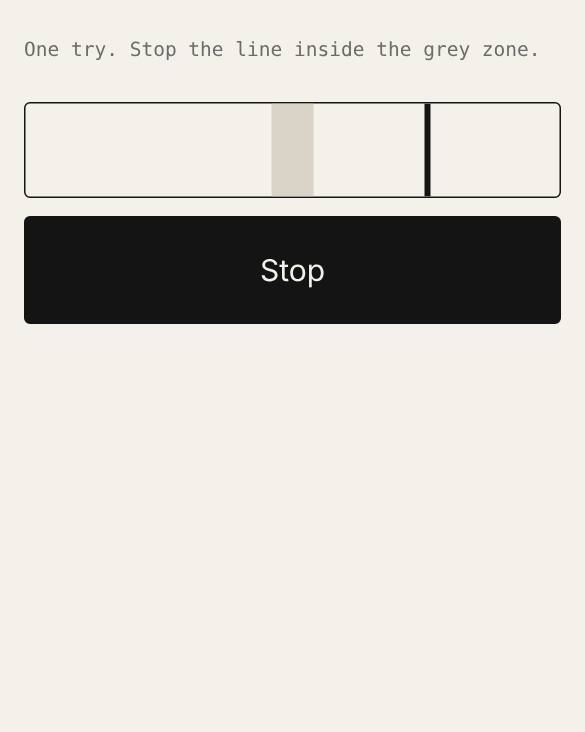
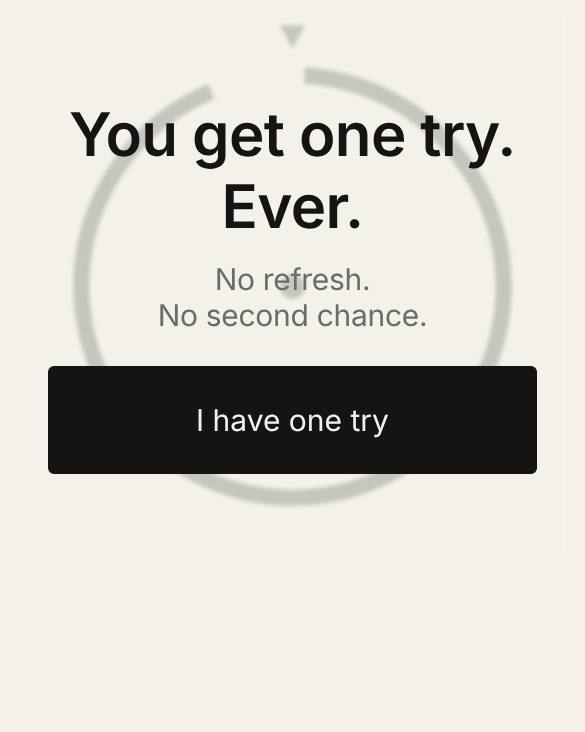
upgrade: one-try-only-game rebuilt as a one-shot ring challenge
Claude-Session: https://claude.ai/code/session_01W7ccME5aP3Yxc2oJkv6EZP

diff --git a/tools/one-try-only-game/index.html b/tools/one-try-only-game/index.html
@@ -46,64 +46,240 @@ ul.plain li { padding: 12px 0; border-bottom: 1px solid var(--line); display: fl
 .built { color: var(--built); }
 @media (prefers-reduced-motion: reduce) { * { animation: none !important; transition: none !important; } }
 
-.track { position: relative; height: 64px; border: 1.5px solid var(--ink); border-radius: var(--radius); overflow: hidden; }
-.zone { position: absolute; top: 0; bottom: 0; left: 46%; width: 8%; background: var(--line); }
-.mark { position: absolute; top: 0; bottom: 0; width: 4px; margin-left: -2px; background: var(--ink); }
-#stop { width: 100%; min-height: 72px; font-size: 20px; }
-#stop:disabled { opacity: .45; cursor: default; }
-#result { min-height: 3em; }
-.locked .mark { background: var(--meta); }
+
+:root { --gold: #a87a12; }
+@media (prefers-color-scheme: dark) { :root { --gold: #e3b341; } }
+body { padding-bottom: 32px; }
+main { max-width: 420px; margin: 0 auto; }
+.stage { position: relative; width: 100%; aspect-ratio: 1; }
+svg { width: 100%; height: 100%; display: block; overflow: visible; }
+#ring { fill: none; stroke: var(--ink); stroke-width: 9; transition: stroke .4s; }
+#pulse { transform-origin: 0 0; }
+.guide { stroke: var(--line); stroke-width: 1.5; stroke-dasharray: 3 6; }
+.pointer { fill: var(--ink); }
+#ball { fill: var(--ink); transition: fill .4s; }
+.veil { position: absolute; inset: -4px; display: flex; flex-direction: column; align-items: center; justify-content: center; text-align: center; gap: 4px; padding: 20px; background: color-mix(in srgb, var(--paper) 80%, transparent); backdrop-filter: blur(1.5px); transition: opacity .6s; }
+.veil.gone { opacity: 0; pointer-events: none; }
+.veil p { margin: 0; font-size: 26px; line-height: 1.2; font-weight: 600; letter-spacing: -.01em; }
+.veil p.q { font-weight: 400; color: var(--meta); font-size: 20px; }
+.veil p.ever { font-size: 40px; margin-bottom: 8px; }
+#begin, #release { width: 100%; min-height: 72px; font-size: 20px; margin-top: 18px; }
+#release { margin-top: 12px; }
+#release:disabled { opacity: .45; }
+.tense #ring, .tense #ball { stroke-width: 9; }
+.shade { position: fixed; inset: 0; background: #000; opacity: 0; pointer-events: none; transition: opacity 1.2s; z-index: -1; }
+.tense .shade { opacity: .0; }
+#verdict { margin-top: 20px; animation: rise .9s ease both; }
+#verdict[hidden], #release[hidden], #begin[hidden] { display: none; }
+@keyframes rise { from { opacity: 0; transform: translateY(8px); } to { opacity: 1; transform: none; } }
+.v { font-size: 40px; line-height: 1.08; font-weight: 600; letter-spacing: -.02em; margin: 0; }
+.v.win { color: var(--gold); }
+.v.lose { color: var(--no); }
+.away { font: 500 20px/1.4 var(--mono); margin: 8px 0 0; }
+.stamp { font: 16px/1.4 var(--mono); color: var(--meta); margin: 4px 0 0; }
+.share { margin-top: 24px; border-top: 1px solid var(--line); padding-top: 16px; }
+.share label { display: block; font-size: 16px; color: var(--meta); margin-bottom: 8px; }
+.share textarea { font-size: 16px; min-height: 96px; resize: none; }
+.share button { margin-top: 10px; width: 100%; font-size: 16px; }
+.ring-win #ring { stroke: var(--gold); }
+.ring-win #ball { fill: var(--gold); }
+.ring-lose #ring { stroke: var(--no); }
+.ring-lose #ball { fill: var(--no); }
 </style>
 <style data-embed-hide>html.embed h1:first-of-type{display:none}html.embed body{padding-top:12px}</style><script>if(location.search.indexOf("embed")>-1)document.documentElement.className+=" embed";</script>
 </head>
 <body>
 <h1 id="wish">someone should make a game that gives you only one try and you fail forever</h1>
-<main id="app" class="stack">
-  <p class="meta" id="rule">One try. Stop the line inside the grey zone.</p>
-  <div class="track" id="track"><div class="zone"></div><div class="mark" id="mark"></div></div>
-  <button class="primary" id="stop" type="button">Stop</button>
-  <div id="result" class="big" aria-live="polite"></div>
-  <p class="meta" id="note"></p>
+<main id="app">
+  <div class="stage" id="stage">
+    <svg viewBox="-150 -150 300 300" aria-label="A rotating ring with a gap. A ball waits at the centre.">
+      <line class="guide" x1="0" y1="-8" x2="0" y2="-138"/>
+      <g id="pulse"><g id="ringg"><circle id="ring" r="118" stroke-dasharray="0 1000"/></g></g>
+      <circle id="ball" r="7" cx="0" cy="0"/>
+      <path class="pointer" d="M-7 -146 L7 -146 L0 -133 Z"/>
+    </svg>
+    <div class="veil" id="warn">
+      <p class="ever">You get one try.<br>Ever.</p>
+      <p class="q">No refresh.<br>No second chance.</p>
+      <button class="primary" id="begin" type="button">I have one try</button>
+    </div>
+  </div>
+  <button class="primary" id="release" type="button" hidden>Release</button>
+  <section id="verdict" hidden aria-live="polite">
+    <p class="v" id="vtext"></p>
+    <p class="away" id="away"></p>
+    <p class="stamp" id="stamp"></p>
+    <div class="share">
+      <label for="sharetext">Share your one try</label>
+      <textarea id="sharetext" readonly></textarea>
+      <button type="button" id="copy">Copy</button>
+    </div>
+  </section>
 </main>
 <script>
 (() => {
   'use strict';
   const KEY = 'one-try-only-game';
+  const GAP = 26;          // gap width in degrees
+  const SPEED = 110;       // ring degrees per second
+  const SLOW = 0.2;        // time scale after release
+  const FLIGHT = 1.4;      // seconds for the ball to reach the ring
+  const R = 118, C = 2 * Math.PI * R;
+  const $ = s => document.querySelector(s);
+  const ring = $('#ring'), ringg = $('#ringg'), ball = $('#ball'), pulse = $('#pulse');
+  const warn = $('#warn'), begin = $('#begin'), release = $('#release');
+  const verdict = $('#verdict');
+
+  // Storage: localStorage first, a cookie as backup.
   const store = {
-    get(k, d) { try { const v = localStorage.getItem(k); return v == null ? d : JSON.parse(v); } catch { return d; } },
-    set(k, v) { try { localStorage.setItem(k, JSON.stringify(v)); return true; } catch { return false; } }
+    get() {
+      try { const v = localStorage.getItem(KEY); if (v) return JSON.parse(v); } catch (e) {}
+      try {
+        const m = document.cookie.match(/(?:^|; )ots=([^;]*)/);
+        if (m) return JSON.parse(decodeURIComponent(m[1]));
+      } catch (e) {}
+      return null;
+    },
+    set(v) {
+      try { localStorage.setItem(KEY, JSON.stringify(v)); } catch (e) {}
+      try { document.cookie = 'ots=' + encodeURIComponent(JSON.stringify(v)) + '; max-age=315360000; path=/; SameSite=Lax'; } catch (e) {}
+    }
   };
-  const $ = (s, r = document) => r.querySelector(s);
-  const ZONE_MIN = 46, ZONE_MAX = 54;
-  const mark = $('#mark'), stop = $('#stop'), result = $('#result'), note = $('#note'), rule = $('#rule');
-  let raf = 0, t0 = performance.now();
 
-  // triangle wave 0..100, period 1.4 s
-  const posAt = t => { const p = (t / 700) % 2; return (p < 1 ? p : 2 - p) * 100; };
-  const show = r => {
-    cancelAnimationFrame(raf);
-    document.body.classList.add('locked');
-    mark.style.left = r.pos + '%';
-    stop.disabled = true;
-    stop.textContent = 'Used';
-    rule.textContent = 'Your one try is spent.';
-    result.className = 'big ' + (r.hit ? 'built' : 'no');
-    result.textContent = r.hit ? 'Hit.' : 'Missed by ' + r.off + '%.';
-    note.textContent = r.hit ? 'It stays that way.' : 'You fail forever.';
+  const wrap = a => ((a + 540) % 360) - 180;
+  let phi = Math.random() * 360;   // ring rotation, degrees clockwise
+  const draw = () => ringg.setAttribute('transform', 'rotate(' + phi.toFixed(2) + ')');
+  ring.setAttribute('stroke-dasharray', (C * (1 - GAP / 360)).toFixed(2) + ' ' + (C * GAP / 360).toFixed(2));
+  // Signed offset of the gap centre from straight up.
+  const offset = () => wrap(phi - GAP / 2 + 90);
+
+  let audio = null;
+  const thump = (g, f) => {
+    if (!audio) return;
+    const t = audio.currentTime, o = audio.createOscillator(), v = audio.createGain();
+    o.type = 'sine';
+    o.frequency.setValueAtTime(f * 1.8, t);
+    o.frequency.exponentialRampToValueAtTime(f * .6, t + .14);
+    v.gain.setValueAtTime(0, t);
+    v.gain.linearRampToValueAtTime(g, t + .015);
+    v.gain.exponentialRampToValueAtTime(.001, t + .22);
+    o.connect(v); v.connect(audio.destination);
+    o.start(t); o.stop(t + .25);
   };
-  const frame = now => { mark.style.left = posAt(now - t0) + '%'; raf = requestAnimationFrame(frame); };
+  const tone = (f, at, len, g) => {
+    if (!audio) return;
+    const t = audio.currentTime + at, o = audio.createOscillator(), v = audio.createGain();
+    o.type = 'sine'; o.frequency.value = f;
+    v.gain.setValueAtTime(0, t);
+    v.gain.linearRampToValueAtTime(g, t + .03);
+    v.gain.exponentialRampToValueAtTime(.001, t + len);
+    o.connect(v); v.connect(audio.destination);
+    o.start(t); o.stop(t + len + .05);
+  };
+  const beat = () => {
+    thump(.9, 62);
+    setTimeout(() => thump(.6, 54), 170);
+    pulse.animate([{ transform: 'scale(1.025)' }, { transform: 'scale(1)' }], { duration: 380 });
+  };
 
-  const saved = store.get(KEY, null);
-  if (saved && typeof saved.pos === 'number') { show(saved); return; }
-  raf = requestAnimationFrame(frame);
+  const fmt = ts => {
+    const d = new Date(ts);
+    return d.toLocaleDateString('en-GB', { day: 'numeric', month: 'long', year: 'numeric' }) + ', ' +
+      d.toLocaleTimeString('en-GB', { hour: '2-digit', minute: '2-digit' });
+  };
 
-  stop.addEventListener('click', () => {
-    const pos = Math.round(posAt(performance.now() - t0) * 10) / 10;
-    const off = pos < ZONE_MIN ? ZONE_MIN - pos : pos > ZONE_MAX ? pos - ZONE_MAX : 0;
-    const r = { pos, hit: off === 0, off: Math.round(off) };
-    const ok = store.set(KEY, r);
-    show(r);
-    if (!ok) note.textContent += ' This browser will not remember it.';
+  // Show the permanent verdict. r = { hit, away, margin, phi, ts, left }
+  const showVerdict = (r, animateBall) => {
+    warn.classList.add('gone');
+    begin.hidden = true; release.hidden = true;
+    document.body.classList.add(r.hit ? 'ring-win' : 'ring-lose');
+    if (typeof r.phi === 'number') { phi = r.phi; draw(); }
+    const y = r.hit ? -R - 22 : -(R - 14);
+    ball.setAttribute('cy', r.left ? 0 : y);
+    $('#vtext').textContent = r.hit ? 'You made it. 1 try.' : 'You missed. Forever.';
+    $('#vtext').className = 'v ' + (r.hit ? 'win' : 'lose');
+    let line = '';
+    if (r.left) line = 'You left before it landed.';
+    else if (r.hit) line = r.margin + '\u00b0 to spare.';
+    else line = r.away + '\u00b0 away.';
+    $('#away').textContent = line;
+    $('#stamp').textContent = fmt(r.ts);
+    const day = new Date(r.ts).toLocaleDateString('en-GB', { day: 'numeric', month: 'long', year: 'numeric' });
+    const base = location.href.split('?')[0].split('#')[0];
+    $('#sharetext').value = r.hit
+      ? 'I got one try and made it. ' + day + '. No second chance. ' + base
+      : 'I got one try and missed by ' + (r.left ? 'leaving' : r.away + '\u00b0') + '. ' + day + '. Forever. ' + base;
+    verdict.hidden = false;
+    document.title = r.hit ? 'You made it. 1 try.' : 'You missed. Forever.';
+  };
+
+  const saved = store.get();
+  if (saved && saved.pending) {
+    const r = { hit: false, left: true, away: 0, ts: saved.ts };
+    store.set(r);
+    showVerdict(r);
+    return;
+  }
+  if (saved && typeof saved.ts === 'number') { showVerdict(saved); return; }
+
+  // Idle: the ring turns behind the warning.
+  let last = performance.now(), scale = 1, released = false, relAt = 0, done = false, lastBeat = 0, beatGap = 900;
+  draw();
+  const frame = now => {
+    const dt = Math.min(now - last, 50) / 1000; last = now;
+    if (released) {
+      const el = (now - relAt) / 1000;
+      scale += (SLOW - scale) * Math.min(1, dt * 9);
+      const p = Math.min(el / FLIGHT, 1);
+      ball.setAttribute('cy', (-(R - 14) * p).toFixed(2));
+      if (now - lastBeat > beatGap) { lastBeat = now; beat(); beatGap = Math.max(380, beatGap - 90); }
+      pulse.style.transform = 'scale(' + (1 + p * 0.05).toFixed(3) + ')';
+      phi += SPEED * scale * dt; draw();
+      if (p >= 1 && !done) { done = true; land(); return; }
+    } else {
+      phi += SPEED * dt; draw();
+    }
+    requestAnimationFrame(frame);
+  };
+  requestAnimationFrame(frame);
+
+  begin.addEventListener('click', () => {
+    warn.classList.add('gone');
+    begin.hidden = true;
+    release.hidden = false;
+    release.focus({ preventScroll: true });
+  });
+
+  release.addEventListener('click', () => {
+    if (released) return;
+    released = true; relAt = performance.now(); lastBeat = relAt - beatGap + 200;
+    release.disabled = true; release.textContent = 'Released';
+    store.set({ pending: true, ts: Date.now() });   // leaving now counts as a miss
+    try {
+      const AC = window.AudioContext || window.webkitAudioContext;
+      if (AC) { audio = new AC(); if (audio.resume) audio.resume(); }
+    } catch (e) { audio = null; }
+  });
+
+  const land = () => {
+    const d = Math.abs(offset());
+    const hit = d <= GAP / 2;
+    const r = { hit, phi, ts: Date.now(),
+      away: hit ? 0 : Math.max(1, Math.round(d - GAP / 2)),
+      margin: hit ? Math.round(GAP / 2 - d) : 0 };
+    store.set(r);
+    pulse.style.transform = '';
+    if (hit) { tone(659, 0, 1.6, .25); tone(988, .18, 2.2, .22); tone(1319, .4, 2.6, .12); }
+    else { tone(44, 0, 2.4, .9); tone(41, .05, 2.4, .6); }
+    showVerdict(r);
+  };
+
+  $('#copy').addEventListener('click', () => {
+    const ta = $('#sharetext'), b = $('#copy');
+    const ok = () => { b.textContent = 'Copied'; setTimeout(() => { b.textContent = 'Copy'; }, 1800); };
+    const fallback = () => { ta.select(); try { document.execCommand('copy'); ok(); } catch (e) { b.textContent = 'Select the text and copy it'; } };
+    if (navigator.clipboard && navigator.clipboard.writeText) navigator.clipboard.writeText(ta.value).then(ok, fallback);
+    else fallback();
   });
 })();
 </script>

diff --git a/data/UPGRADE.md b/data/UPGRADE.md
@@ -1,0 +1,13 @@
+# Upgrade brief — showcase tools (one subagent per tool)
+
+Working directory: `/home/claude/someone-should`. You UPGRADE one existing tool: `tools/$SLUG/`. It already passes the verify gate but it is thin. These five are the first things strangers will see in the launch video and post, so they must make someone say "oh that's actually good" within 5 seconds on a phone.
+
+1. Read `CONTRACT.md`, `design/tokens.css`, and the current `tools/$SLUG/index.html` + `tool.json`. Read nothing else.
+2. Rebuild `tools/$SLUG/index.html` to the bar below. Keep: single file, zero network, the CSP meta, the embed snippet line before `</head>`, the family look (tokens, system font, paper background). You may use one accent colour and simple inline SVG/canvas art; it should feel crafted and delightful, not like a form. Size limit 60 kB.
+3. Update `tool.json`: new `spec` (3 lines), new `tests` (3–6 steps that prove the real behaviour), `built` = now (UTC), `model` = `$MODEL`, `minutes`. Keep `slug, wish, year, agreed, sources` unchanged.
+4. First frame = the thumbnail: it must look alive and inviting with no input (an example in progress, art visible), not an empty form.
+5. `node scripts/verify.mjs $SLUG` → fix → rerun until PASS (max 3 runs). Then `node scripts/thumbs.mjs $SLUG`.
+6. Do not commit. Reply with one line: `PASS $SLUG — <what changed> — <kB> kB — tests n/n` or `FAIL $SLUG — <first error>`.
+
+## The bar, per tool
+$BAR
